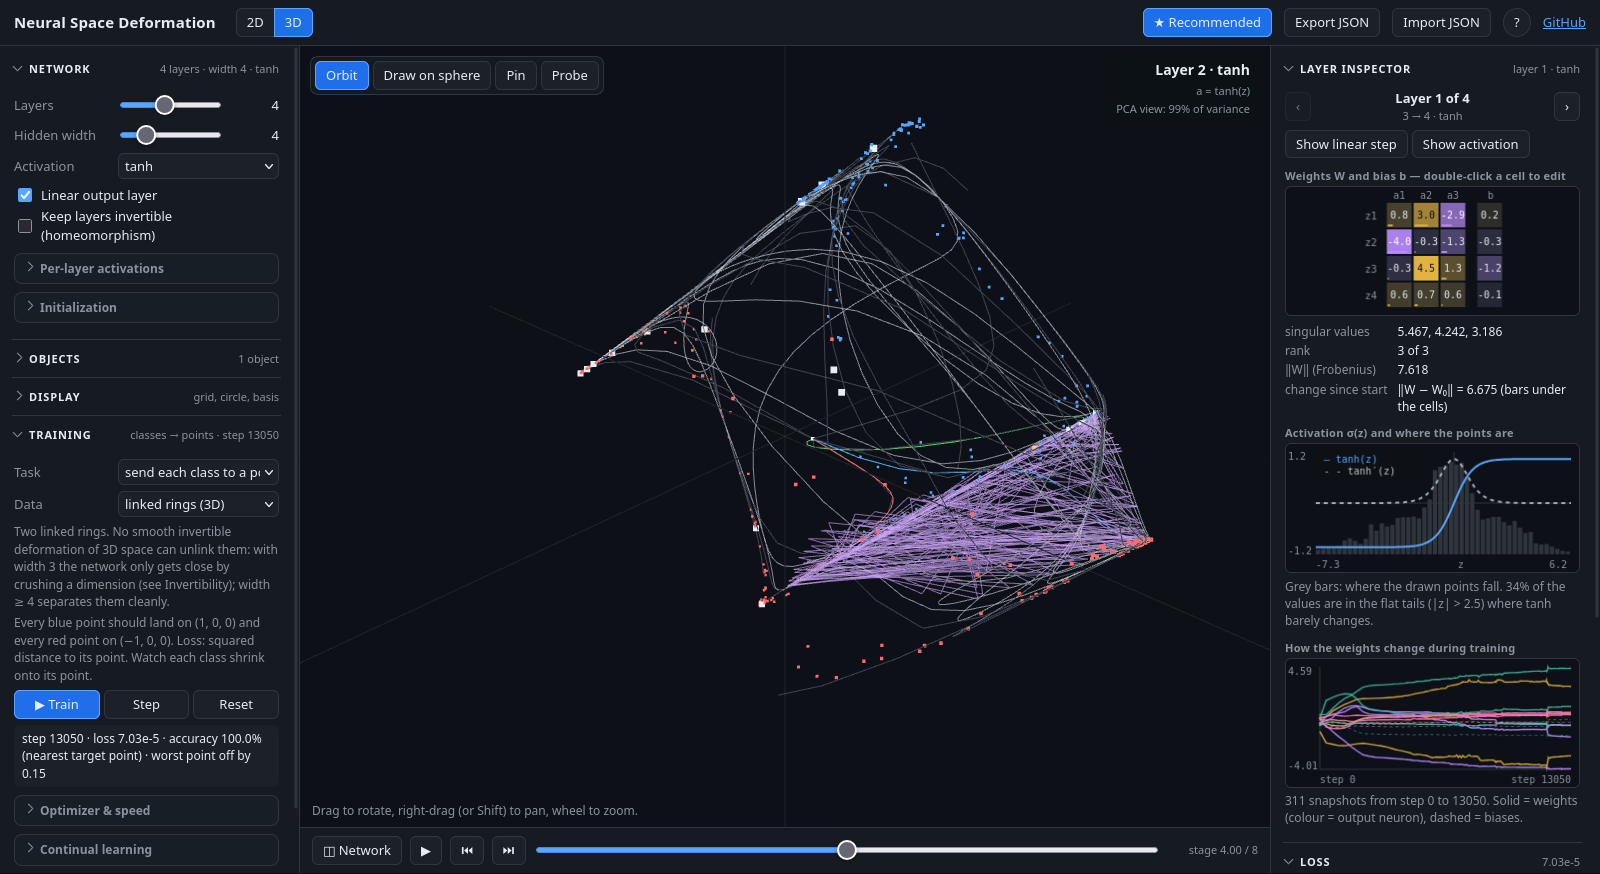
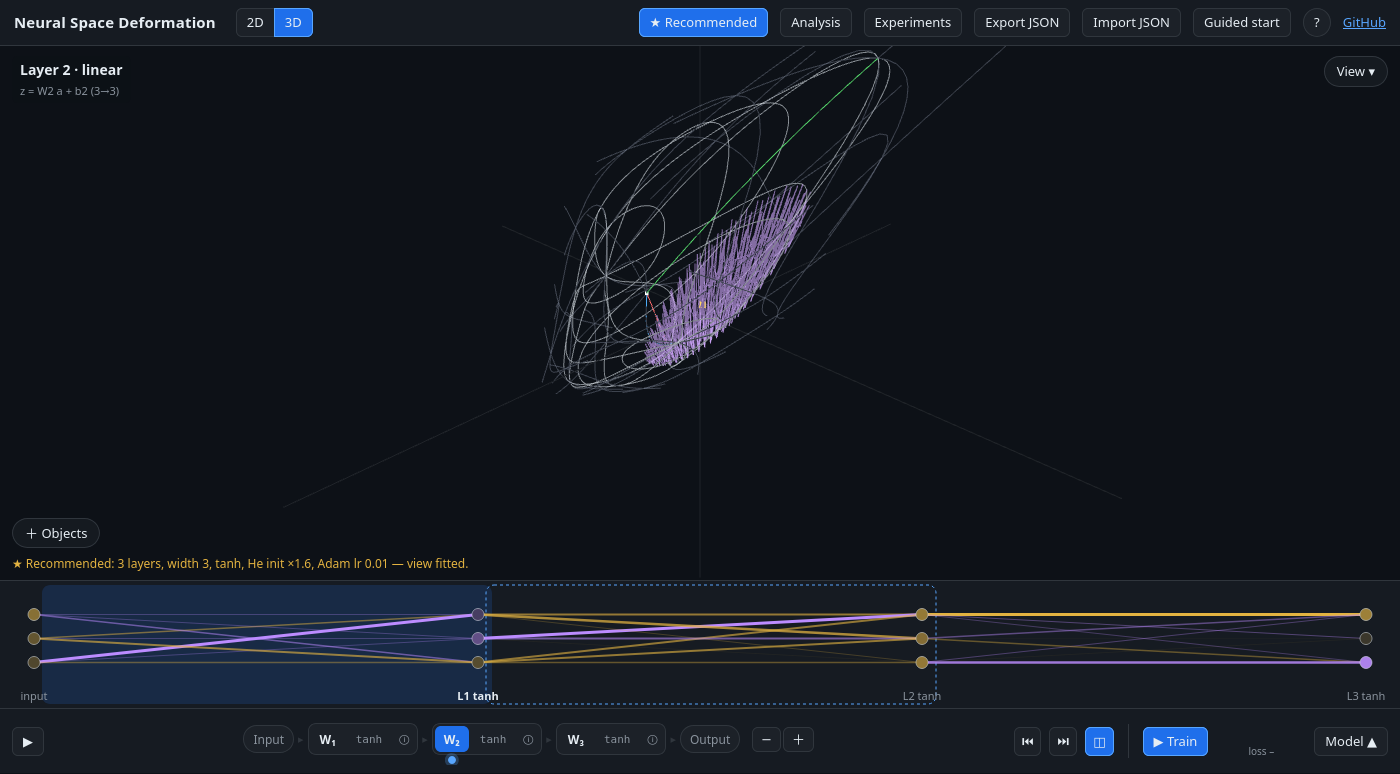
README: the new workspace, updated how-to and screenshots; ★ Recommended also for my own goals

diff --git a/src/ui.js b/src/ui.js
@@ -1515,7 +1515,7 @@
    */
   /** [layers, width] that train well for a task and data set (shared with the guided start). */
   function recommendedArch(d, target, dataset) {
-    if (target === 'anchors' || target === 'classify') {
+    if (target === 'anchors' || target === 'classify' || target === 'goals') {   // goals: class data, sent to points
       return { blobs: [2, d], moons: [4, d], circles: [4, d === 3 ? 6 : 4], rings: [5, 6], xor: [3, 4], wave: [4, 6],
         spirals: [6, 6], checker: [6, 8], linked: [4, 4], custom: [5, 6] }[dataset] || (dataset.startsWith('shape:') ? [4, d + 1] : [4, 6]);
     }

diff --git a/README.md b/README.md
@@ -25,6 +25,8 @@ starting weights. Every card plays a small preview computed by a tiny network tr
 goes straight to the full workspace, and **Guided start** in the header opens the guide again.
 Code: `src/wizard.js` (flow) and `src/minis.js` (previews).
 
+![Guided start, network step: the network as its weight matrices, and one layer step by step](docs/screenshot-guide.png)
+
 ## The workspace
 
 One big view; everything else opens on demand, and one panel at a time (✕, Esc or a click outside closes it).
@@ -45,38 +47,44 @@ One big view; everything else opens on demand, and one panel at a time (✕, Esc
 
 ## Things to try
 
-1. **Watch a network bend space.** Press ▶ under the view: the grid, the unit circle and the example
-   objects go through each layer — first the linear map, then the activation.
-2. **Look inside a layer.** Press **◫ Network** under the view and click a layer in the diagram. The
-   *Layer inspector* on the right shows its weight matrix `W` and bias `b` as a heatmap (gold +, violet −; blue and red always mean the two classes),
-   its activation function with the derivative and a histogram of where the points actually land, and
-   how every weight moved during training. Double-click a weight, type a new value and watch the
+1. **Watch a network bend space.** Press ▶ at the left of the strip (or Space): the grid, the unit circle
+   and the example objects go through each layer — first the linear map, then the activation. Click a
+   step in the strip to jump there, or drag along it.
+2. **Look inside a layer.** Click ⓘ next to a layer in the strip. The *Layer inspector* shows its weight
+   matrix `W` and bias `b` as a heatmap (gold +, violet −; blue and red always mean the two classes), its
+   activation function with the derivative and a histogram of where the points actually land, and how
+   every weight moved during training. Double-click a weight, type a new value and watch the
    deformation change.
-3. **Send each class to a point.** Training → Task *send each class to a point*, Data *spirals*, press
-   **★ Recommended**, then **▶ Train**. Blue points are pulled to (1, 0), red points to (−1, 0); at the
-   output the whole plane collapses onto the segment between them.
-4. **Topology experiments: what a network can and cannot do.** The *Topology experiments* table shows for
-   every experiment whether it works at width *d* and with one extra dimension. Click one (e.g. 3D →
-   *Ball out of the shell*), run **Width 3 — expected: fails**, then **Width 4 — expected: works**; the
-   result line under the buttons says whether your run solved it. Watch "worst point off by" —
-   it is measured on a 50× finer copy of the shape, because the network otherwise cheats by stretching
-   the piece of a curve between two training points around the obstacle.
-5. **Catastrophic forgetting.** Task *pinned points*, drag a few pins, Mode *sequential*, train with
-   anti-forgetting *none*, then with *replay*, *OGD* or *EWC*, and compare the Forgetting table.
+3. **Send each class wherever you want.** Model ▲ → Task *my own goals*, Data *spirals*, press
+   **★ Recommended**, then **▶ Train**. Blue points are pulled to A, red points to B; jump to Output and
+   drag A or B while it trains. Add *Object stays* to keep a shape in place at the same time.
+4. **Look into a wide layer.** With width 4 or more in 2D, go to a hidden step and right-drag the view:
+   the third principal direction becomes depth, and you can see how the layer lifts one class over the
+   other. The class background (View ▾) says how often its 2D slice agrees with the network.
+5. **Topology experiments: what a network can and cannot do.** *Experiments* (top right) shows for every
+   experiment whether it works at width *d* and with one extra dimension. Click one (e.g. 3D → *Ball out
+   of the shell*), run **Width 3 — expected: fails**, then **Width 4 — expected: works**; the result line
+   says whether your run solved it. Watch "worst point off by" — it is measured on a 50× finer copy of
+   the shape, because the network otherwise cheats by stretching the piece of a curve between two
+   training points around the obstacle.
+6. **Catastrophic forgetting.** Task *pinned points*, drag a few pins with the Pin tool (＋ Objects),
+   Model ▲ → Continual learning → Mode *sequential*, train with anti-forgetting *none*, then with
+   *replay*, *OGD* or *EWC*, and compare the Forgetting table under *Analysis*.
 
-![Forward view: a tanh network half-way through layer 2, with Jacobian ellipses](docs/screenshot-2d.png)
-![Training: where the network sends each input (background), loss curve and gradient interference](docs/screenshot-train.png)
+![Forward view: a tanh network half-way through layer 2, with Jacobian ellipses; the strip at the bottom is the network](docs/screenshot-2d.png)
+![My own goals on the spirals: blue to A, red to B, at the output; the Model drawer shows network, goals with their losses, and training](docs/screenshot-train.png)
+![A wide hidden layer, tilted: the third principal direction as depth shows how the layer lifts one class over the other](docs/screenshot-tilt.png)
+![Layer inspector and neuron diagram; the class background of a wide stage is a 2D slice, and the legend says how often it agrees with the network](docs/screenshot-inspector.png)
 ![3D view](docs/screenshot-3d.png)
-![Network diagram and layer inspector: weights, activation with point histogram, weight history](docs/screenshot-inspector.png)
 
 ## What it shows
 
 - **Forward view.** Draw curves, circles, filled regions (2D) or spheres and curves on spheres (3D).
   Each object is sampled into 200–500 points connected in order, together with the reference grid,
-  the unit circle/sphere, the basis vectors and the origin. Move the stage slider to see the objects
-  after each layer — every layer is split into its **linear** step (`z = W a + b`) and its
+  the unit circle/sphere, the basis vectors and the origin. Click or drag along the strip to see the
+  objects after each layer — every layer is split into its **linear** step (`z = W a + b`) and its
   **activation** step (`a = σ(z)`), with a smooth morph in between.
-- **Network diagram and layer inspector.** A strip under the view draws the network: one column per
+- **Network diagram and layer inspector.** ◫ in the strip opens a diagram of the network: one column per
   layer, edges coloured and weighted by `W` (gold positive, violet negative), neurons filled by their value
   at the probe point. Click a layer to inspect it: `W`/`b` heatmap with the change since initialization
   under each cell, singular values, rank, `det W`, norms; the activation `σ(z)` and `σ′(z)` with a
@@ -93,6 +101,8 @@ One big view; everything else opens on demand, and one panel at a time (✕, Esc
     `(−1, 0[, 0])` (MSE). The clearest picture of classification: each class cloud is squashed onto its
     point and the region between the classes is stretched into a cliff — a tiny version of the
     "neural collapse" seen in large classifiers;
+  - **my own goals**: any mix of class → point (drag the point), separate the classes, object → point and
+    object stays, each with a weight;
   - **separate classes** with two output logits and cross-entropy;
   - **match a linear map** (rotation, shear, scaling) with MSE;
   - **pinned points**: drag from an input point to where its output should go.
@@ -114,9 +124,10 @@ One big view; everything else opens on demand, and one panel at a time (✕, Esc
 - **You stay in control.** Nothing changes your settings or the view on its own: zoom with the wheel,
   pan by dragging. One button, **★ Recommended**, aligns everything to settings that work well for the
   current task and data (layers, width, activations, initialization, optimizer) and fits the view.
-- **Interface.** Every panel is a collapsible section with a one-line summary in its header; the less
-  used options sit in sub-groups. Open/closed state is remembered. Keyboard: <kbd>Space</kbd> play/pause,
-  <kbd>←</kbd>/<kbd>→</kbd> step through the layers, <kbd>T</kbd> train; the **?** button shows a quick guide.
+- **Interface.** A guided start for first visits; then one big view with everything else on demand
+  (see *The workspace* above). The page only draws when something changes, so an idle tab costs almost
+  nothing. Keyboard: <kbd>Space</kbd> play/pause, <kbd>←</kbd>/<kbd>→</kbd> step through the layers,
+  <kbd>T</kbd> train, <kbd>Esc</kbd> closes a panel; the **?** button shows a quick guide.
 - **Share.** Export/import the full state (architecture, seed, weights, objects, pins, settings) as JSON.
 
 ## Run locally
@@ -146,7 +157,11 @@ src/nn.js       tensor/MLP module: forward, backprop, Jacobians, losses, SGD, Ad
 src/viz2d.js    Canvas renderer (pan/zoom) and small charts (loss, heatmap)
 src/viz3d.js    Three.js renderer with a minimal orbit camera and ray picking
 src/inspector.js network diagram and layer inspector (weight heatmap, activation, weight history)
-src/ui.js       state, controls, traces through the layers, interaction, training loop, panels
+src/ui.js       state, controls, traces through the layers, interaction, training loop, objects, goals
+src/shell.js    workspace layout: popovers, the right-hand sheet, the model drawer (one panel at a time)
+src/strip.js    the model strip: the network as the path a point travels, scrubbing, loss sparkline
+src/wizard.js   the guided start (dimension → problem → data → network)
+src/minis.js    the guided start's previews (tiny networks trained in the page) and the one-layer demo
 test/           node test of the math in nn.js
 ```
 
@@ -268,7 +283,10 @@ Training on task B after task A can raise A's loss again. The app measures
 
 Layers wider than the view dimension are drawn through their top two (or three) principal
 components. The axis signs are aligned with the previous stage so the animation does not flip, and the
-label shows how much of the variance the projection keeps.
+label shows how much of the variance the projection keeps. In 2D the third component can be shown as
+depth (right-drag to tilt): a class that a wide layer lifts over the other becomes visible. The class
+background of a wide stage is the rest of the network evaluated on the PCA plane through the points —
+a 2D slice — and the legend says on how many data points that slice agrees with the network.
 
 ## Author
 
